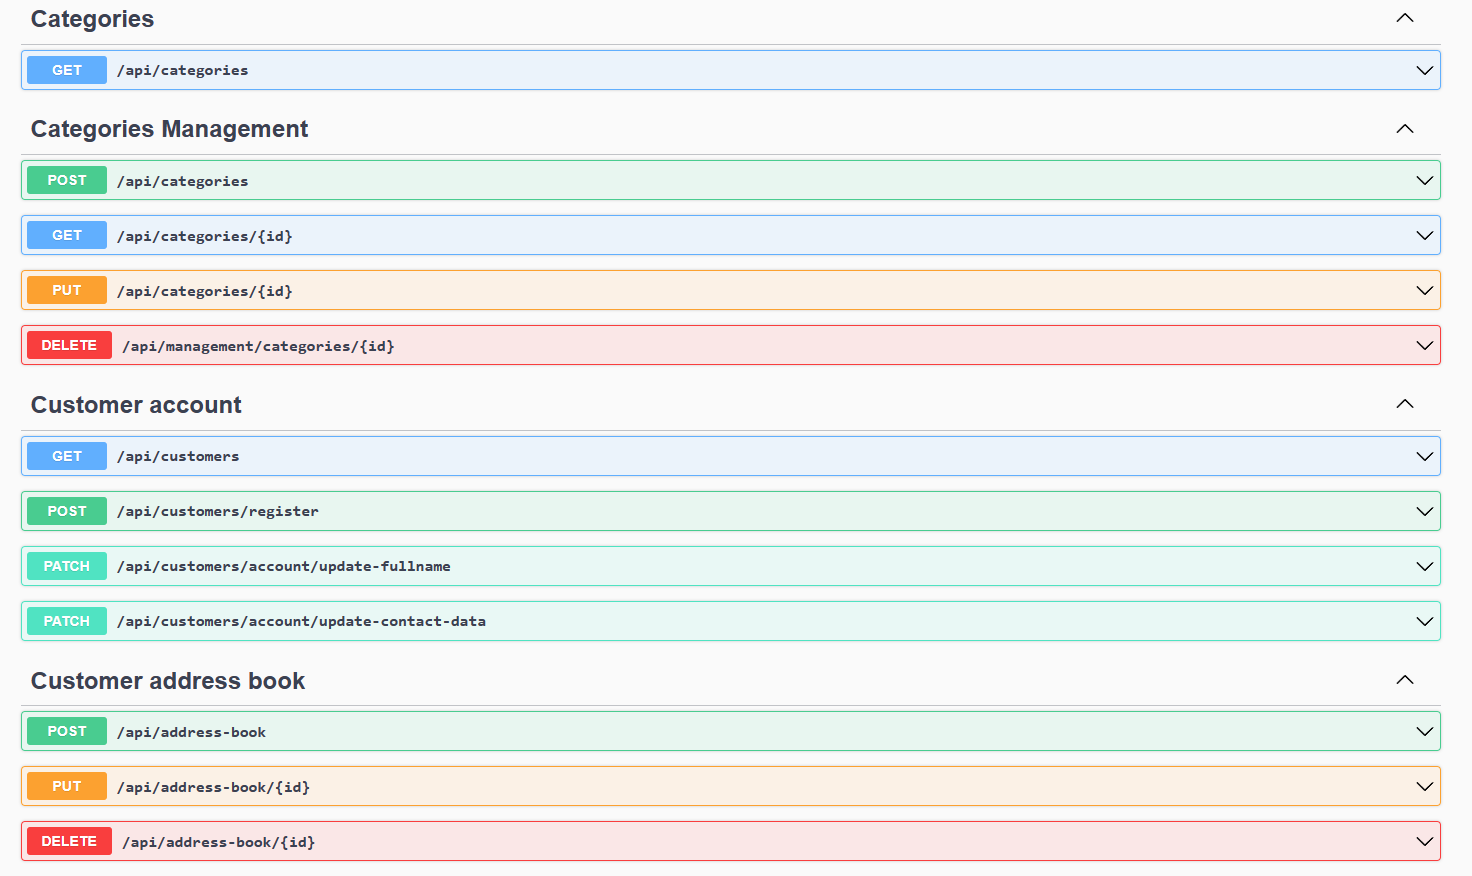
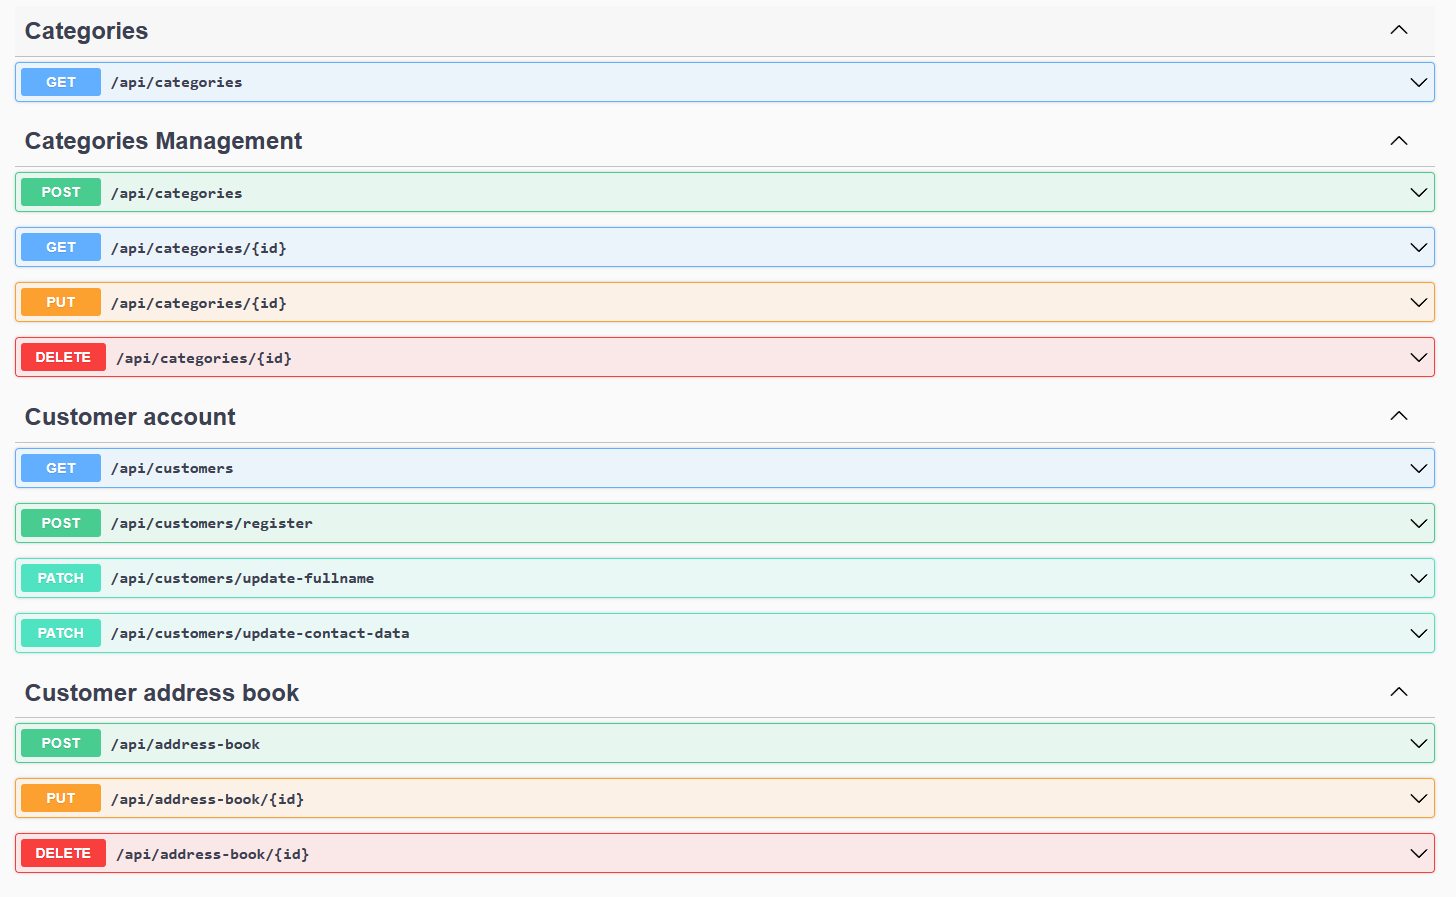
refactor

Changed region(s): [[0.0, 0.0, 0.989, 0.9863]]

diff --git a/src/ECommerce.API/Endpoints/ProductsEndpoints.cs b/src/ECommerce.API/Endpoints/ProductsEndpoints.cs
@@ -55,11 +55,11 @@ public static class ProductsEndpoints
             .WithTags(managementGroupName)
             .RequireAuthorization(AuthorizationPolicy.Admin);
 
-        endpoints.MapGet("api/products/{productId:long}/image", GetProductImage)
+        endpoints.MapGet("api/products/{id:long}/image", GetProductImage)
             .Produces(StatusCodes.Status200OK)
             .Produces(StatusCodes.Status404NotFound)
             .WithTags(groupName);
-        endpoints.MapPut("api/products/{productId:long}/image", SetProductImage)
+        endpoints.MapPut("api/products/{id:long}/image", SetProductImage)
             .Produces(StatusCodes.Status204NoContent)
             .Produces(StatusCodes.Status400BadRequest)
             .WithTags(managementGroupName)
@@ -134,14 +134,14 @@ public static class ProductsEndpoints
         return Results.NoContent();
     }
 
-    private static IResult GetProductImage([FromRoute] long productId)
+    private static IResult GetProductImage([FromRoute] long id)
     {
         var rootPath = Directory.GetCurrentDirectory();
 
-        var imagePath = $"{rootPath}/wwwroot/ProductImages/{productId}.jpg";
+        var imagePath = $"{rootPath}/wwwroot/ProductImages/{id}.jpg";
 
         var imageExists = File.Exists(imagePath);
-        if (!imageExists) return Results.NotFound($"Product image with id `{productId}` does not exists");
+        if (!imageExists) return Results.NotFound($"Product image with id `{id}` does not exists");
 
         using var fileStream = new FileStream(imagePath, FileMode.Open);
         
@@ -150,19 +150,19 @@ public static class ProductsEndpoints
 
     // TODO
     private static async ValueTask<IResult> SetProductImage(
-        [FromRoute] long productId,
+        [FromRoute] long id,
         [FromForm] IFormFile? image,
         [FromServices] IAppDbContext dbContext,
         CancellationToken cancellationToken)
     {
-        if (!await dbContext.Products.AnyAsync(x => x.Id == productId, cancellationToken)) 
-            return Results.BadRequest($"Product with id `{productId}` does not exist.");
+        if (!await dbContext.Products.AnyAsync(x => x.Id == id, cancellationToken)) 
+            return Results.BadRequest($"Product with id `{id}` does not exist.");
 
         if (image is not { Length: > 0, ContentType: "image/jpeg" })
             return Results.BadRequest("The image must be JPEG file type.");
         
         var rootPath = Directory.GetCurrentDirectory();
-        var imagePath = $"{rootPath}/wwwroot/ProductImages/{productId}.jpg";
+        var imagePath = $"{rootPath}/wwwroot/ProductImages/{id}.jpg";
 
         await using var fileStream = new FileStream(imagePath, FileMode.Create);
         await image.CopyToAsync(fileStream, cancellationToken);

diff --git a/src/ECommerce.API/Endpoints/CustomersEndpoints.cs b/src/ECommerce.API/Endpoints/CustomersEndpoints.cs
@@ -25,13 +25,13 @@ public static class AccountEndpoints
             .RequireAuthorization()
             .WithTags(groupName);
         
-        endpoints.MapPatch("api/customers/account/update-fullname", UpdateFullName)
+        endpoints.MapPatch("api/customers/update-fullname", UpdateFullName)
             .Produces(StatusCodes.Status204NoContent)
             .Produces(StatusCodes.Status400BadRequest)
             .RequireAuthorization(AuthorizationPolicy.RegisteredCustomer)
             .WithTags(groupName);
 
-        endpoints.MapPatch("api/customers/account/update-contact-data", UpdateContactData)
+        endpoints.MapPatch("api/customers/update-contact-data", UpdateContactData)
             .Produces(StatusCodes.Status204NoContent)
             .Produces(StatusCodes.Status400BadRequest)
             .RequireAuthorization(AuthorizationPolicy.RegisteredCustomer)

diff --git a/src/ECommerce.API/Endpoints/CategoriesEndpoints.cs b/src/ECommerce.API/Endpoints/CategoriesEndpoints.cs
@@ -37,7 +37,7 @@ public static class CategoriesEndpoints
             .WithTags(managementGroupName)
             .RequireAuthorization(AuthorizationPolicy.Admin);
 
-        endpoints.MapDelete("api/management/categories/{id:long}", Delete)
+        endpoints.MapDelete("api/categories/{id:long}", Delete)
             .Produces(StatusCodes.Status204NoContent)
             .Produces(StatusCodes.Status400BadRequest)
             .Produces(StatusCodes.Status404NotFound)

diff --git a/src/ECommerce.API/Endpoints/OrdersEndpoints.cs b/src/ECommerce.API/Endpoints/OrdersEndpoints.cs
@@ -13,7 +13,7 @@ public static class OrderEndpoints
 {
     public static IEndpointRouteBuilder RegisterOrderEndpoints(this IEndpointRouteBuilder endpoints)
     {
-        const string groupName = "Customer Orders";
+        const string groupName = "Customer orders";
         const string managementGroupName = "Orders Management";
 
         endpoints.MapGet("api/orders/{id:long}", GetOrderByIdForManagement)
